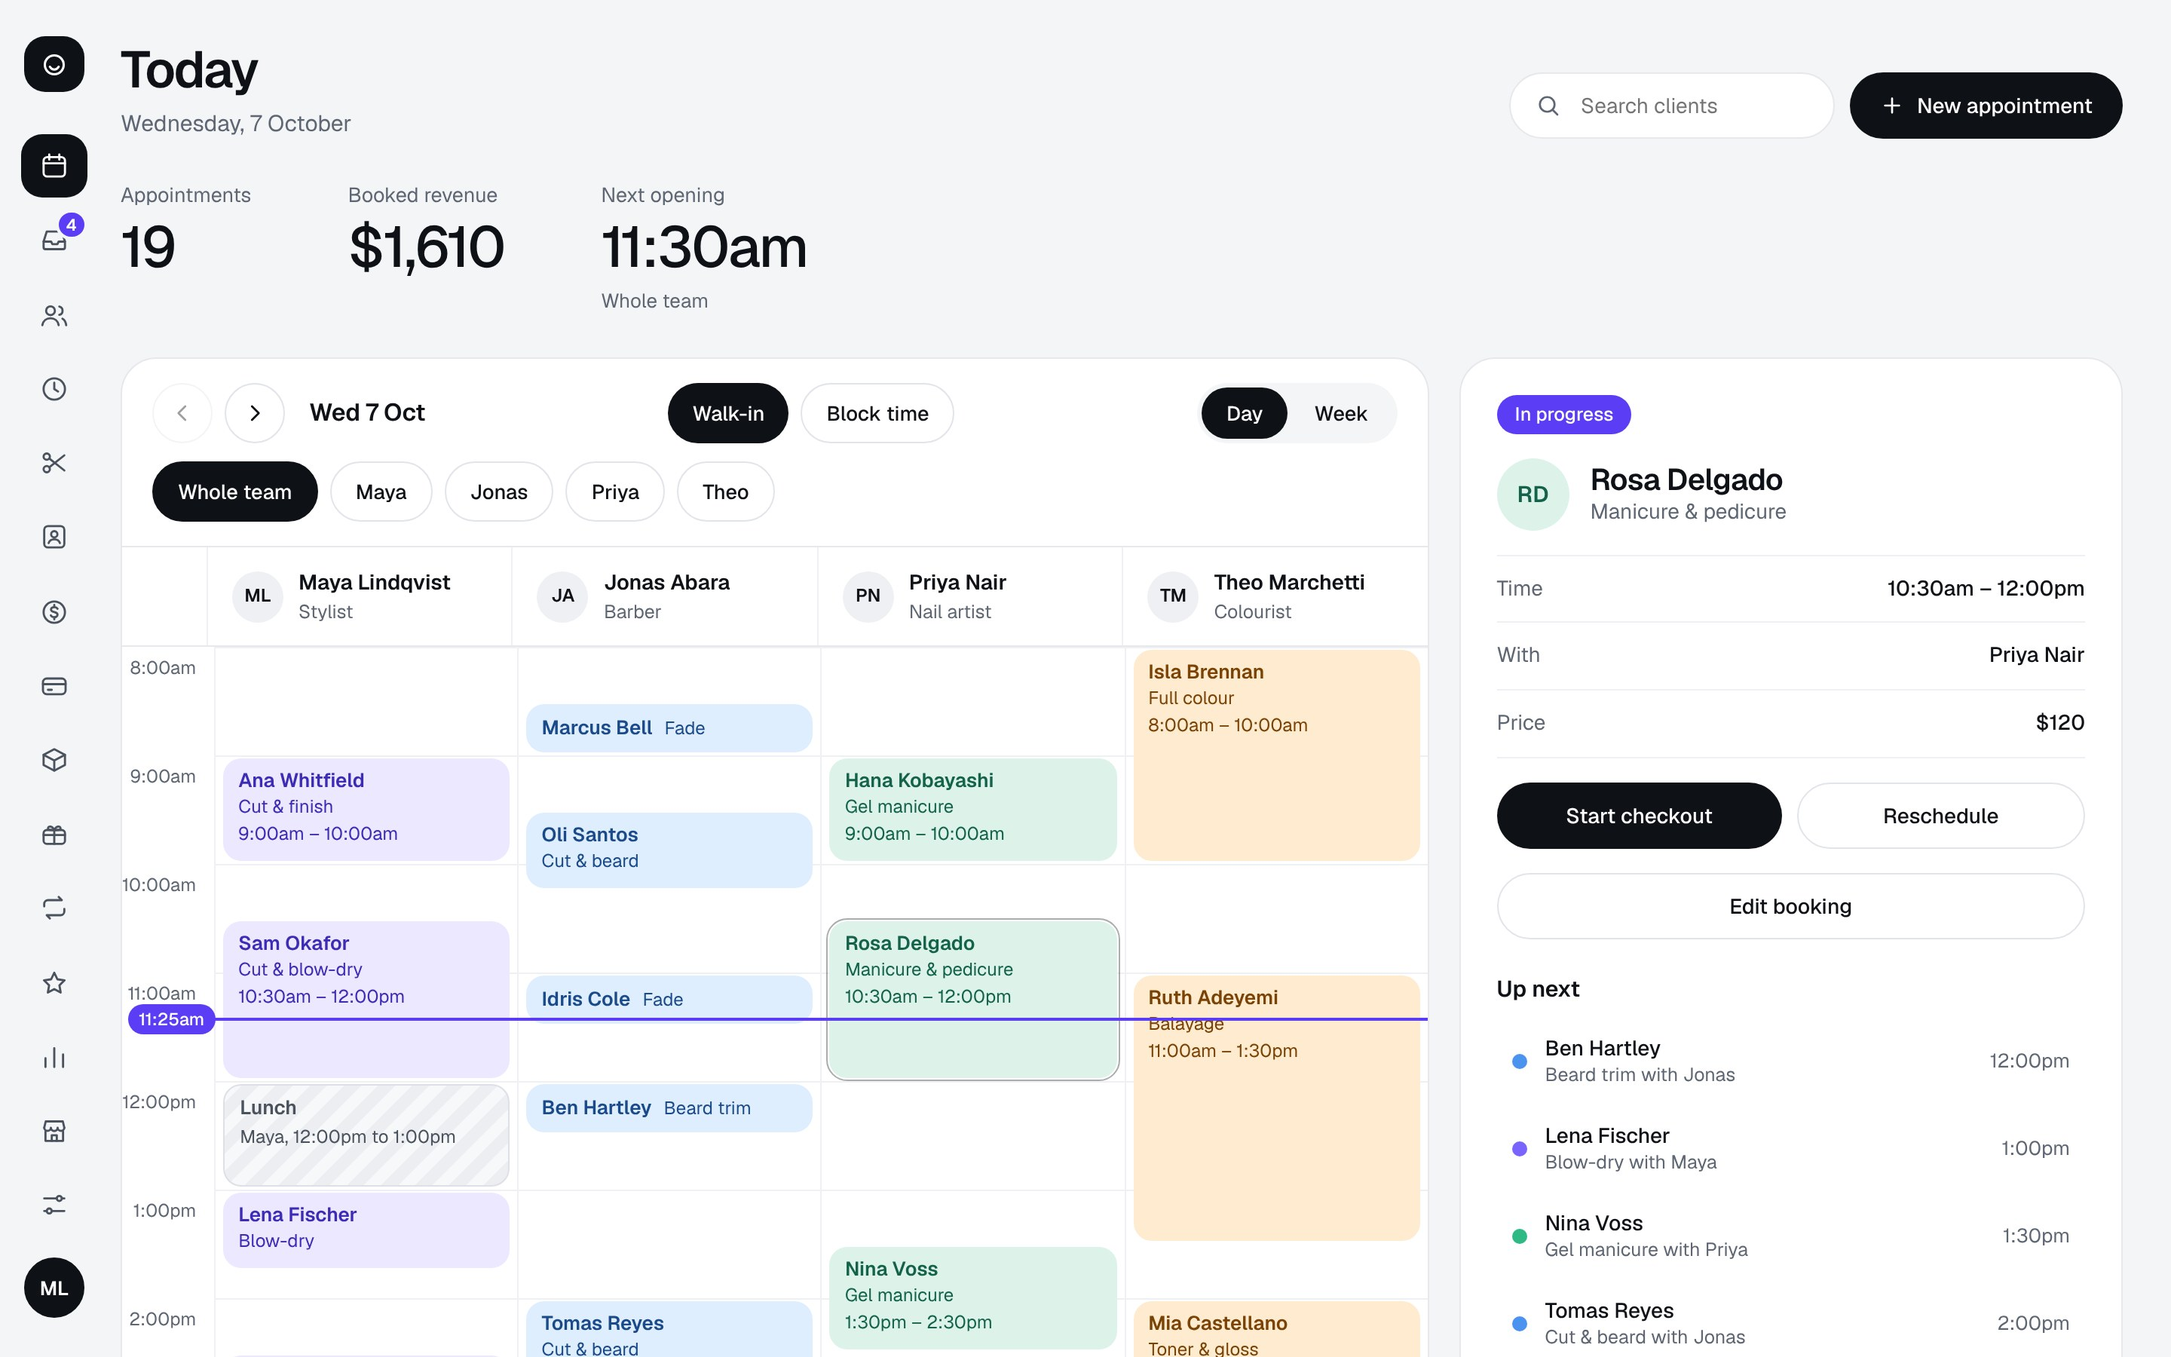
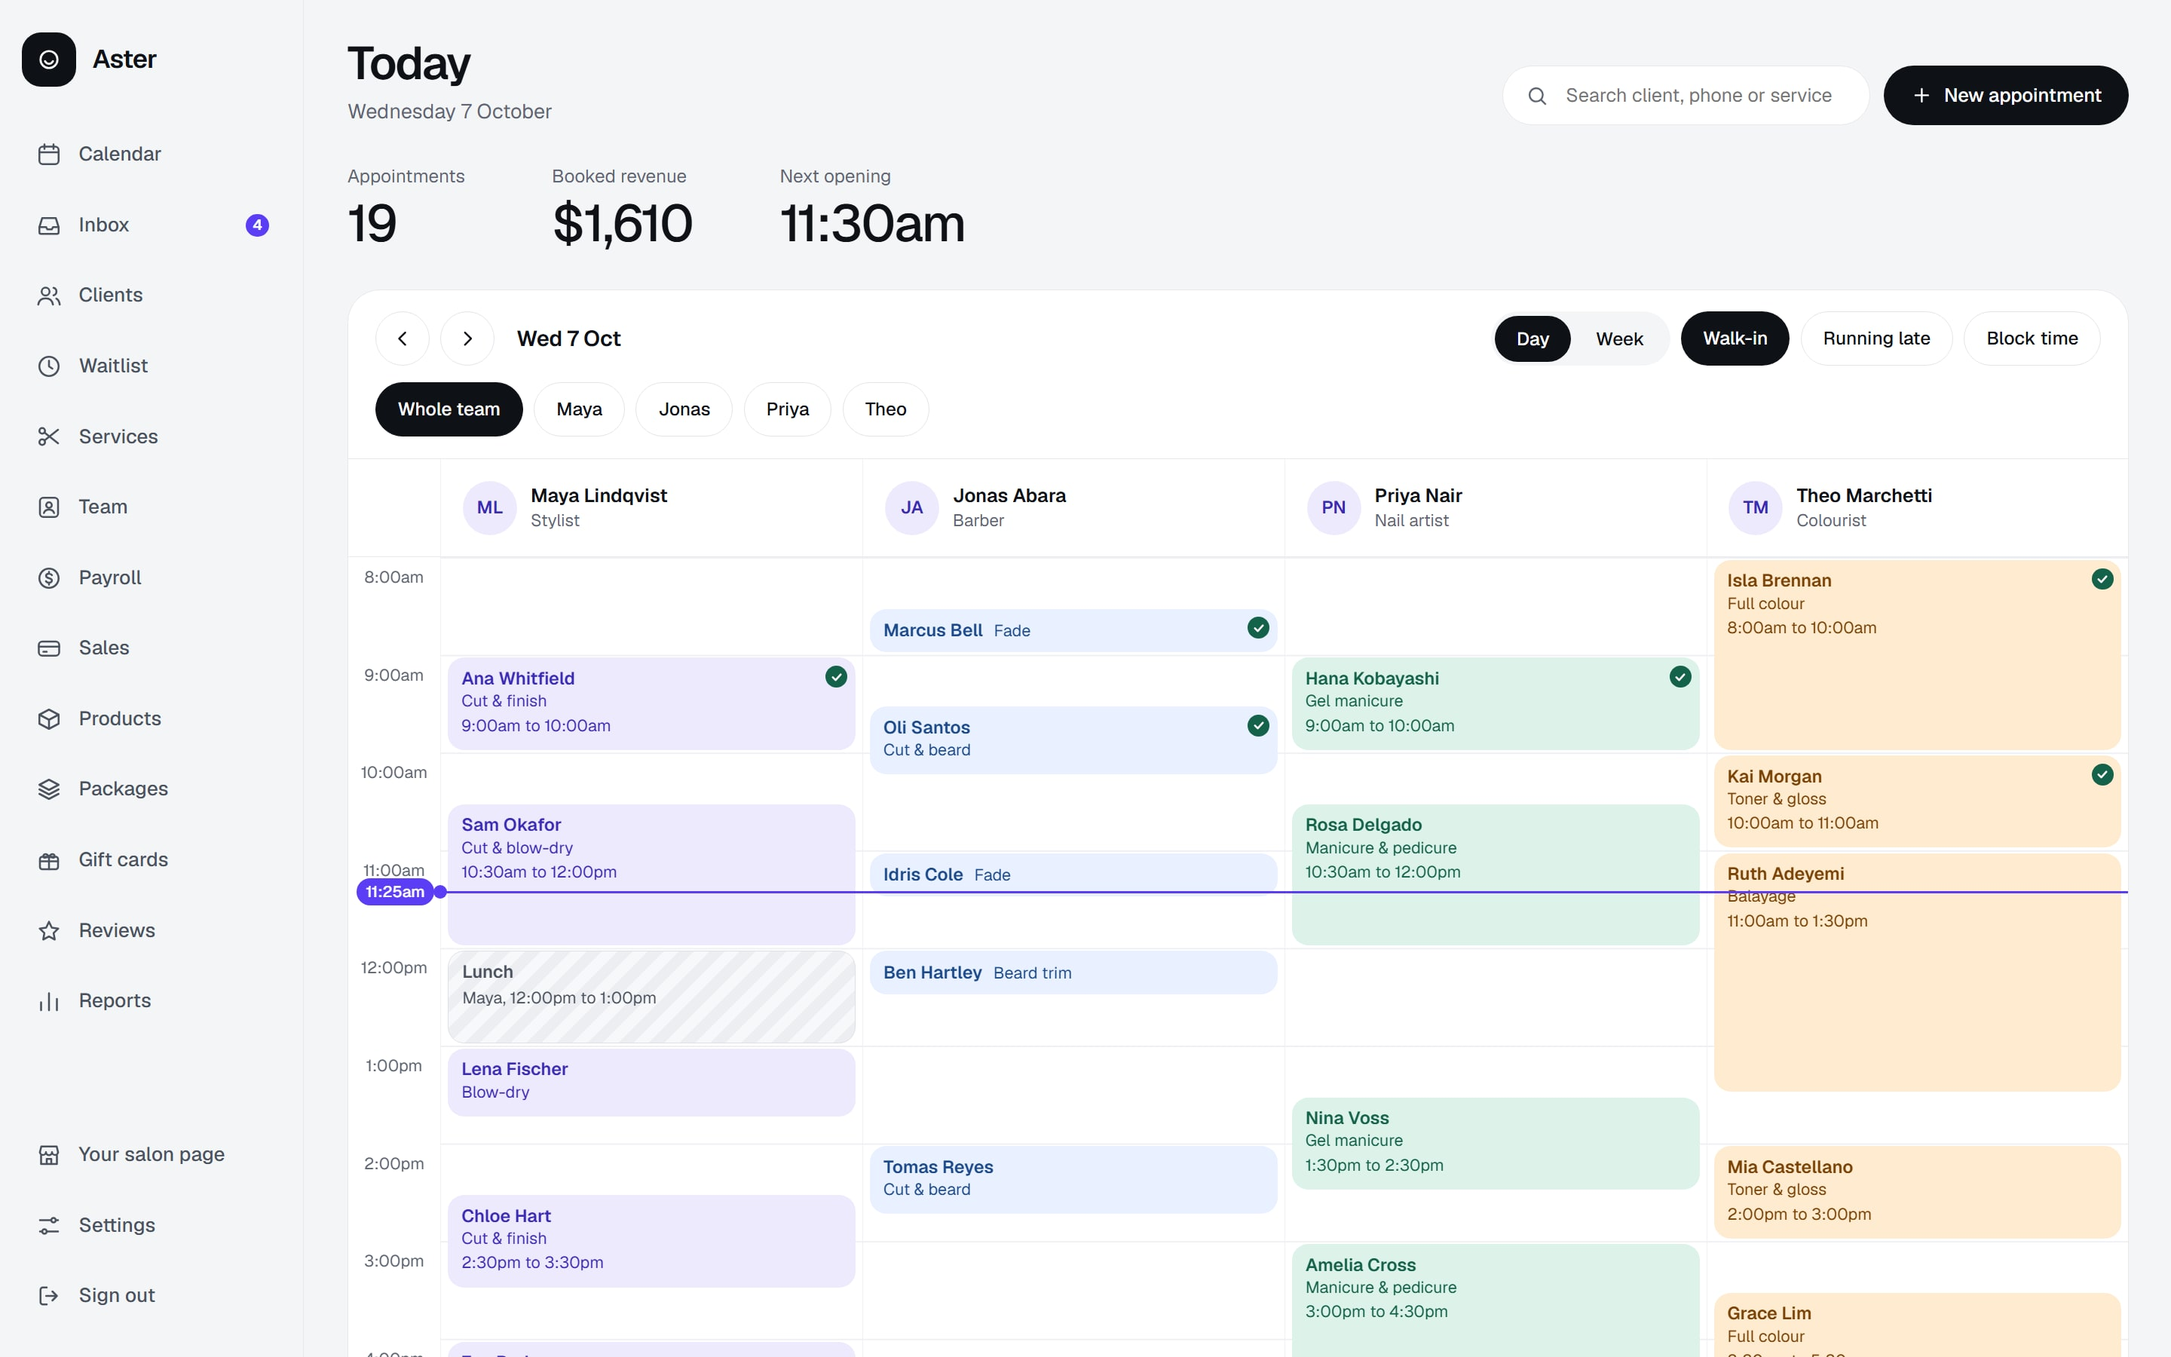
Invited team members join straight away; new landing picture
An invite link now leads to a sign-up (or sign-in) that asks only for an
email and password: the name is the one already on the Team page, no new
salon is set up, and the invite is accepted as soon as the account exists.
The welcome email that talks about setting up a salon is not sent to them.

The landing page picture is now the real calendar in the current styling
(19 appointments, $1,610, four stylists, the four service colours), and the
calendar's search box is wide enough for its hint.

diff --git a/src/components/AuthView.tsx b/src/components/AuthView.tsx
@@ -30,7 +30,11 @@ const ALT: Record<Mode, [string, string, Mode] | null> = {
 };
 const BULLET = <span aria-hidden="true" style={S('width:8px;height:8px;border-radius:999px;background:#8F7CFF;flex:0 0 8px')}></span>;
 
-export function AuthView({ mode: initial }: { mode: Mode }) {
+const TEAM_POINTS = ['See your own appointments and shifts', 'Get notified when clients book you', 'Check out clients in a couple of taps'];
+const SALON_POINTS = ['One calendar for the whole team', 'Online booking that fills gaps for you', 'Checkout, receipts and reports in one place'];
+
+/** `invite`: opened from a team invite link, so the name is already known, no salon is set up, and signing up or in finishes joining that salon's team. */
+export function AuthView({ mode: initial, invite }: { mode: Mode; invite?: { token: string; name: string; salon: string } | null }) {
   const [mode, setMode] = useState<Mode>(initial);
   const [email, setEmail] = useState(''); const [pw, setPw] = useState(''); const [name, setName] = useState('');
   const [show, setShow] = useState(false); const [error, setError] = useState('');
@@ -39,17 +43,20 @@ export function AuthView({ mode: initial }: { mode: Mode }) {
   const goMode = (m: Mode) => { setMode(m); setError(''); setDone(null); };
   const submit = async (e: React.FormEvent) => {
     e.preventDefault(); if (busy) return;
-    if (mode === 'up' && !name.trim()) { setError('Add your name.'); return; }
+    if (mode === 'up' && !invite && !name.trim()) { setError('Add your name.'); return; }
     if (mode !== 'new' && !/^[^@\s]+@[^@\s]+\.[^@\s]+$/.test(email.trim())) { setError('Enter a valid email address.'); return; }
     if (mode === 'in' && !pw) { setError('Enter your password.'); return; }
     if ((mode === 'up' || mode === 'new') && pw.length < 8) { setError('Use at least 8 characters for your password.'); return; }
     setBusy(true);
     try {
-      const r = mode === 'in' ? await signIn({ email, password: pw }) : mode === 'up' ? await signUp({ name, email, password: pw }) : mode === 'reset' ? await requestReset({ email }) : await setNewPassword({ password: pw });
+      const r = mode === 'in' ? await signIn({ email, password: pw, invite: invite?.token }) : mode === 'up' ? await signUp({ name, email, password: pw, invite: invite?.token }) : mode === 'reset' ? await requestReset({ email }) : await setNewPassword({ password: pw });
       if (r?.error) setError(r.error); else if (r?.status) { setDone(r.status); setError(''); }
     } catch (err: any) { if (err?.digest?.startsWith?.('NEXT_REDIRECT')) throw err; setError('Something went wrong. Please try again.'); } finally { setBusy(false); }
   };
-  const c = COPY[mode], aside = ASIDE[mode], alt = ALT[mode];
+  const joining = !!invite && (mode === 'in' || mode === 'up');
+  const c = joining ? { ...COPY[mode], sub: mode === 'up' ? `You are joining ${invite.salon} as ${invite.name}.` : `Sign in to join ${invite.salon}.` } : COPY[mode];
+  const aside = joining ? ['You are invited to join the team.', 'See your appointments as soon as you are in.'] : ASIDE[mode];
+  const alt = ALT[mode];
   const first = firstName(name);
   const dc = done === 'created' ? { t: 'Account created', p: 'Welcome, ' + first + '. Next, tell us about your salon.', href: '/setup', label: 'Set up your salon' }
     : done === 'confirm' ? { t: 'Check your email', p: 'We sent a confirmation link to ' + email.trim() + '. Open it to finish creating your account.', href: '', label: '' }
@@ -61,7 +68,7 @@ export function AuthView({ mode: initial }: { mode: Mode }) {
         <div style={S('display:flex;flex-direction:column;gap:28px;max-width:440px')}>
           <h2 style={S('margin:0;font-size:44px;line-height:1.08;font-weight:600;letter-spacing:-0.03em')}>{aside[0]}</h2>
           <ul style={S('margin:0;padding:0;list-style:none;display:flex;flex-direction:column;gap:14px;color:#C9CDD5;font-size:16px')}>
-            {['One calendar for the whole team', 'Online booking that fills gaps for you', 'Checkout, receipts and reports in one place'].map((t) => <li key={t} style={S('display:flex;gap:12px;align-items:center')}>{BULLET}{t}</li>)}
+            {(joining ? TEAM_POINTS : SALON_POINTS).map((t) => <li key={t} style={S('display:flex;gap:12px;align-items:center')}>{BULLET}{t}</li>)}
           </ul>
         </div>
         <div aria-hidden="true" style={S('color:#8A93A0;font-size:13px')}>{' '}</div>
@@ -78,7 +85,7 @@ export function AuthView({ mode: initial }: { mode: Mode }) {
           </div>
           {!done && <>
             <form onSubmit={submit} noValidate style={S('display:flex;flex-direction:column;gap:16px')}>
-              {mode === 'up' && <LabelledField id="si-name" label="Your name"><input id="si-name" className="bkf" type="text" value={name} onChange={(e) => { setName(e.target.value); setError(''); }} placeholder="Full name" autoComplete="name" style={S(INPUT)} /></LabelledField>}
+              {mode === 'up' && !invite && <LabelledField id="si-name" label="Your name"><input id="si-name" className="bkf" type="text" value={name} onChange={(e) => { setName(e.target.value); setError(''); }} placeholder="Full name" autoComplete="name" style={S(INPUT)} /></LabelledField>}
               {mode !== 'new' && <LabelledField id="si-email" label="Email"><input id="si-email" className="bkf" type="email" value={email} onChange={(e) => { setEmail(e.target.value); setError(''); }} placeholder="you@salon.com" autoComplete="email" style={S(INPUT)} /></LabelledField>}
               {mode !== 'reset' && (
                 <div style={S('display:flex;flex-direction:column;gap:6px')}>

diff --git a/src/app/auth-actions.ts b/src/app/auth-actions.ts
@@ -5,21 +5,30 @@ import { redirect } from 'next/navigation';
 import { headers } from 'next/headers';
 import { supabaseServer } from '@/lib/supabase/server';
 import { allow, clientIp } from '@/lib/rate-limit';
+import { openInvite } from '@/lib/invites';
 
 type R = { error?: string; status?: 'created' | 'confirm' | 'sent' };
 const EMAIL = /^[^@\s]+@[^@\s]+\.[^@\s]+$/;
 const origin = async () => { const h = await headers(); return process.env.NEXT_PUBLIC_APP_URL ?? `https://${h.get('x-forwarded-host') ?? h.get('host')}`; };
 
-export async function signIn(input: { email: string; password: string }): Promise<R> {
+/** `invite` is the token of a team invite (the /join link): the person joins that salon straight after signing in instead of setting up a new one. */
+export async function signIn(input: { email: string; password: string; invite?: string }): Promise<R> {
   if (!EMAIL.test(input.email.trim()) || !input.password) return { error: 'Email or password is incorrect.' };
   const sb = await supabaseServer();
   const { error } = await sb.auth.signInWithPassword({ email: input.email.trim(), password: input.password });
   if (error) return { error: 'Email or password is incorrect.' };
+  if (input.invite) {
+    const { error: joinErr } = await sb.rpc('accept_staff_invite', { p_token: input.invite });
+    if (joinErr) redirect(`/join/${encodeURIComponent(input.invite)}?err=1`);
+  }
   redirect('/calendar');
 }
 
-export async function signUp(input: { name: string; email: string; password: string }): Promise<R> {
-  const name = input.name.trim(), email = input.email.trim();
+/** With an `invite` the name is the one already on the Team page, so only an email and a password are asked for. */
+export async function signUp(input: { name?: string; email: string; password: string; invite?: string }): Promise<R> {
+  const inv = input.invite ? await openInvite(input.invite) : null;
+  if (input.invite && !inv) return { error: 'This invite is no longer valid. Ask the salon owner to send you a new one.' };
+  const name = inv ? inv.name : (input.name ?? '').trim(), email = input.email.trim();
   if (!name) return { error: 'Add your name.' };
   if (name.length > 80) return { error: 'Keep your name under 80 characters.' };
   if (!EMAIL.test(email) || email.length > 254) return { error: 'Enter a valid email address.' };
@@ -32,6 +41,11 @@ export async function signUp(input: { name: string; email: string; password: str
   const sb = await supabaseServer();
   const { error: inErr } = await sb.auth.signInWithPassword({ email, password: input.password });
   if (inErr) return { error: 'Your account was created. Please sign in.' };
+  if (inv) {
+    const { error: joinErr } = await sb.rpc('accept_staff_invite', { p_token: inv.token });
+    if (joinErr) redirect(`/join/${encodeURIComponent(inv.token)}?err=1`);
+    redirect('/calendar');
+  }
   await sendWelcomeEmail(email, name);
   return { status: 'created' };
 }

diff --git a/src/app/(dash)/calendar/DesktopCalendar.tsx b/src/app/(dash)/calendar/DesktopCalendar.tsx
@@ -74,7 +74,7 @@ export function DesktopCalendar({ c, props }: { c: ReturnType<typeof useCalendar
         <div style={S('display:flex;flex-wrap:wrap;align-items:center;gap:10px')}>
           <label className="search" style={S('display:flex;align-items:center;gap:10px;height:44px;box-sizing:border-box;padding:0 16px;border-radius:999px;background:#FFFFFF;border:1px solid #E6E8EC;color:#5E6673')}>
             <svg width="18" height="18" viewBox="0 0 24 24" fill="none" stroke="#5E6673" strokeWidth="1.8" strokeLinecap="round" strokeLinejoin="round"><circle cx="11" cy="11" r="6.5" /><path d="m16 16 4 4" /></svg>
-            <input type="text" value={query} onChange={(e) => setQuery(e.target.value)} placeholder="Search client, phone or service" aria-label="Search appointments" style={{ ...S('border:0;outline:none;background:transparent;font:inherit;color:#0E1116;width:150px'), padding: '1px 2px', minHeight: 0, borderRadius: 0 }} />
+            <input type="text" value={query} onChange={(e) => setQuery(e.target.value)} placeholder="Search client, phone or service" aria-label="Search appointments" style={{ ...S('border:0;outline:none;background:transparent;font:inherit;color:#0E1116;width:210px'), padding: '1px 2px', minHeight: 0, borderRadius: 0 }} />
           </label>
           <button onClick={openNew} style={S(BLACK_ACTION)}>
             <Icon name="plus" color="#FFFFFF" />

diff --git a/src/app/join/[token]/Shell.tsx b/src/app/join/[token]/Shell.tsx
@@ -41,6 +41,6 @@ export const Problem = ({ children }: { children: React.ReactNode }) => <FieldEr
 export const PrimaryLink = ({ href, children }: { href: string; children: React.ReactNode }) => <Link href={href} style={S(DARK)}>{children}</Link>;
 export const LightLink = ({ href, children }: { href: string; children: React.ReactNode }) => <Link href={href} style={S(LIGHT)}>{children}</Link>;
 export const PrimaryButton = ({ children }: { children: React.ReactNode }) => <button style={S(DARK)}>{children}</button>;
-export const SignInLine = () => (
-  <div style={S('display:flex;align-items:center;justify-content:center;flex-wrap:wrap;gap:6px;padding-top:20px;border-top:1px solid #E6E8EC;font-size:14.5px;color:#5E6673')}><span>Already have an account?</span><Link href="/sign-in" style={S('padding:6px 0;color:#5B3DF5;font-weight:600;text-decoration:none')}>Sign in</Link></div>
+export const SignInLine = ({ href = '/sign-in' }: { href?: string }) => (
+  <div style={S('display:flex;align-items:center;justify-content:center;flex-wrap:wrap;gap:6px;padding-top:20px;border-top:1px solid #E6E8EC;font-size:14.5px;color:#5E6673')}><span>Already have an account?</span><Link href={href}style={S('padding:6px 0;color:#5B3DF5;font-weight:600;text-decoration:none')}>Sign in</Link></div>
 );

diff --git a/src/app/sign-up/page.tsx b/src/app/sign-up/page.tsx
@@ -1,13 +1,17 @@
 import { redirect } from 'next/navigation';
 import { AuthView } from '@/components/AuthView';
+import { openInvite } from '@/lib/invites';
 import { supabaseServer } from '@/lib/supabase/server';
 import { clientHome } from '@/lib/session';
 export const metadata = { title: 'Create account' };
 export const dynamic = 'force-dynamic';
-/** Already signed in? Go straight to the calendar instead of showing the form. */
-export default async function Page() {
+/** Already signed in? Go straight to the calendar instead of showing the form. A team invite (?invite=) goes on to its own page, which also says when the invite no longer works. */
+export default async function Page({ searchParams }: { searchParams: Promise<{ invite?: string }> }) {
+  const { invite } = await searchParams;
+  const inv = await openInvite(invite);
+  if (invite && !inv) redirect(`/join/${encodeURIComponent(invite)}`);
   const sb = await supabaseServer();
   const { data: { user } } = await sb.auth.getUser();
-  if (user) redirect(clientHome(user.user_metadata) ?? '/calendar');
-  return <AuthView mode="up" />;
+  if (user) redirect(inv ? `/join/${encodeURIComponent(inv.token)}` : clientHome(user.user_metadata) ?? '/calendar');
+  return <AuthView mode="up" invite={inv} />;
 }

diff --git a/src/app/sign-in/page.tsx b/src/app/sign-in/page.tsx
@@ -1,13 +1,17 @@
 import { redirect } from 'next/navigation';
 import { AuthView } from '@/components/AuthView';
+import { openInvite } from '@/lib/invites';
 import { supabaseServer } from '@/lib/supabase/server';
 import { clientHome } from '@/lib/session';
 export const metadata = { title: 'Sign in' };
 export const dynamic = 'force-dynamic';
-/** Already signed in? Go straight to the calendar instead of showing the form. */
-export default async function Page() {
+/** Already signed in? Go straight to the calendar instead of showing the form. A team invite (?invite=) goes on to its own page, which also says when the invite no longer works. */
+export default async function Page({ searchParams }: { searchParams: Promise<{ invite?: string }> }) {
+  const { invite } = await searchParams;
+  const inv = await openInvite(invite);
+  if (invite && !inv) redirect(`/join/${encodeURIComponent(invite)}`);
   const sb = await supabaseServer();
   const { data: { user } } = await sb.auth.getUser();
-  if (user) redirect(clientHome(user.user_metadata) ?? '/calendar');
-  return <AuthView mode="in" />;
+  if (user) redirect(inv ? `/join/${encodeURIComponent(inv.token)}` : clientHome(user.user_metadata) ?? '/calendar');
+  return <AuthView mode="in" invite={inv} />;
 }

diff --git a/src/lib/invites.ts b/src/lib/invites.ts
@@ -1,0 +1,15 @@
+import 'server-only';
+import { supabaseAdmin } from '@/lib/supabase/admin';
+
+export type OpenInvite = { token: string; name: string; salon: string };
+
+/** The team invite behind a /join link, when it can still be used: the person it was made for (their name is already on the Team page) and the salon. */
+export async function openInvite(token: string | null | undefined): Promise<OpenInvite | null> {
+  if (!token || token.length > 100) return null;
+  const sb = supabaseAdmin();
+  const { data: inv } = await sb.from('staff_invites').select('accepted_at,expires_at,salon_id,staff(name,active,user_id)').eq('token', token).maybeSingle();
+  const who = (inv as any)?.staff as { name: string; active: boolean; user_id: string | null } | null | undefined;
+  if (!inv || inv.accepted_at || new Date(inv.expires_at) < new Date() || !who?.active || who.user_id) return null;
+  const { data: salon } = await sb.from('salons').select('name').eq('id', inv.salon_id).single();
+  return { token, name: who.name, salon: salon?.name ?? 'the team' };
+}

diff --git a/src/app/join/[token]/page.tsx b/src/app/join/[token]/page.tsx
@@ -34,9 +34,9 @@ export default async function Join({ params, searchParams }: { params: Promise<{
       {user ? (
         <form action={accept.bind(null, token)}><PrimaryButton>Accept invite</PrimaryButton></form>
       ) : (<>
-        <PrimaryLink href="/sign-up">Create account</PrimaryLink>
-        <Note>After signing up, open this invite link again to finish joining.</Note>
-        <SignInLine />
+        <PrimaryLink href={`/sign-up?invite=${encodeURIComponent(token)}`}>Create account</PrimaryLink>
+        <Note>Just an email and a password. You join the team straight after.</Note>
+        <SignInLine href={`/sign-in?invite=${encodeURIComponent(token)}`} />
       </>)}
     </Shell>
   );
